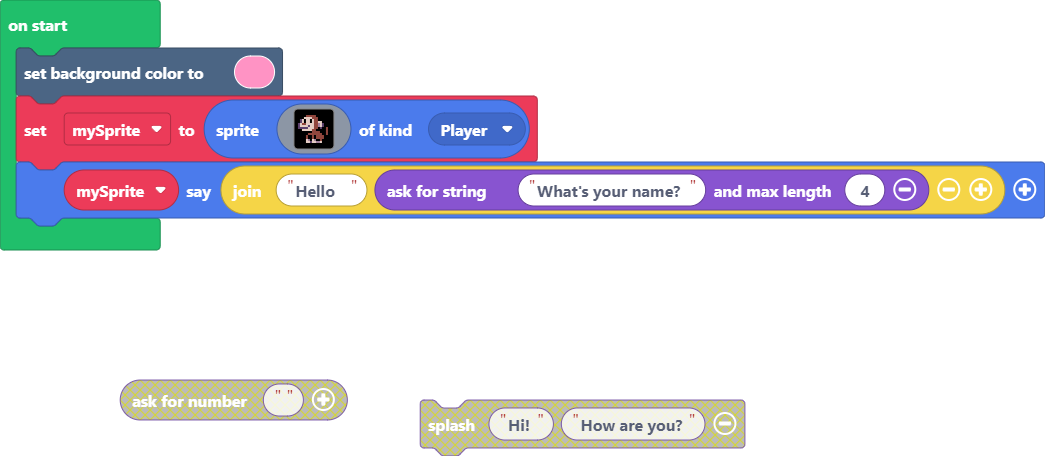
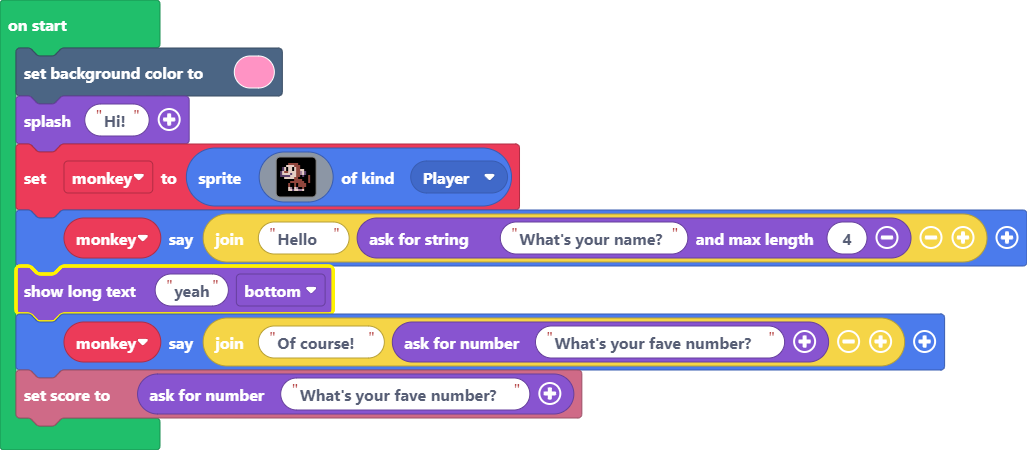
Tinkering with prompts

diff --git a/main.ts b/main.ts
@@ -1,5 +1,6 @@
 scene.setBackgroundColor(3)
-let mySprite = sprites.create(img`
+game.splash("Hi!")
+let monkey = sprites.create(img`
     . . . . f f f f f . . . . . . . 
     . . . f e e e e e f . . . . . . 
     . . f d d d d e e e f . . . . . 
@@ -17,4 +18,7 @@ let mySprite = sprites.create(img`
     . . . f d d c d d b b d f . . . 
     . . . . f f f f f f f f f . . . 
     `, SpriteKind.Player)
-mySprite.sayText("Hello " + game.askForString("What's your name?", 4))
+monkey.sayText("Hello " + game.askForString("What's your name?", 4))
+game.showLongText("yeah", DialogLayout.Bottom)
+monkey.sayText("Of course!" + game.askForNumber("What's your fave number?"))
+info.setScore(game.askForNumber("What's your fave number?"))
